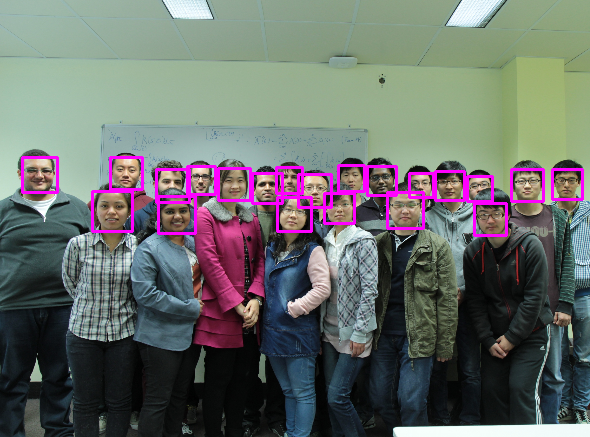
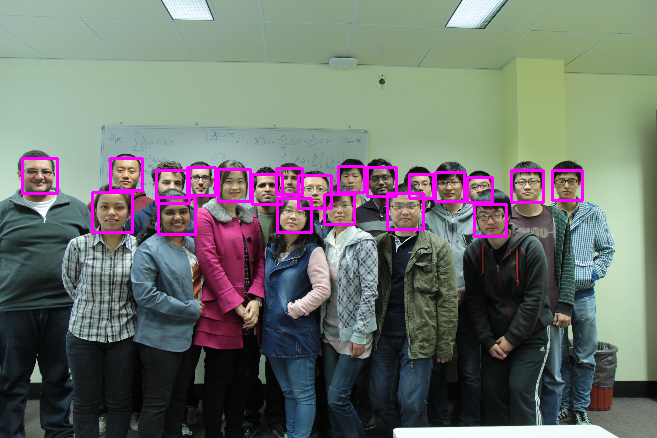
Update detected image so that it isn't cropped in report

diff --git a/report.tex b/report.tex
@@ -74,12 +74,14 @@ The proportion of the size of the training set to the size of the validation set
 Data Prep
 
 \subsection{Haar}
-%\begin{figure}[H]
-%\centering
-%\includegraphics[width=0.7\linewidth]{./groupdetected}
-%\caption{Faces detected}
-%\label{fig:group}
-%\end{figure} % FIXME
+Haar classifiers can be used to rapidly detect faces within an image in real time.
+
+\begin{figure}[H] % FIXME: This figure wrecks page numbering
+\centering
+\includegraphics[width=0.7\linewidth]{./groupdetected}
+\caption{Faces detected. $scaleFactor=1.01, minNeighbors=9$}
+\label{fig:group}
+\end{figure} % FIXME
 
 \subsubsection{Parameter Optimisation}
 There were four parameters to consider with the Haar classifier: double scaleFactor, int minNeighbors, Size minSize and Size maxSize.
